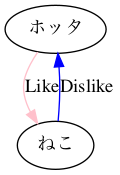
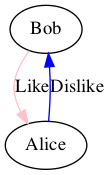
alice bob

diff --git a/app.py b/app.py
@@ -5,8 +5,8 @@ graph = Digraph(format="png" , comment="相関図")
 
 
 # ノードを追加
-graph.node("node1", label="ホッタ")
-graph.node("node2", label="ねこ")
+graph.node("node1", label="Bob")
+graph.node("node2", label="Alice")
 
 # 辺を追加
 graph.attr("edge", color="pink")
